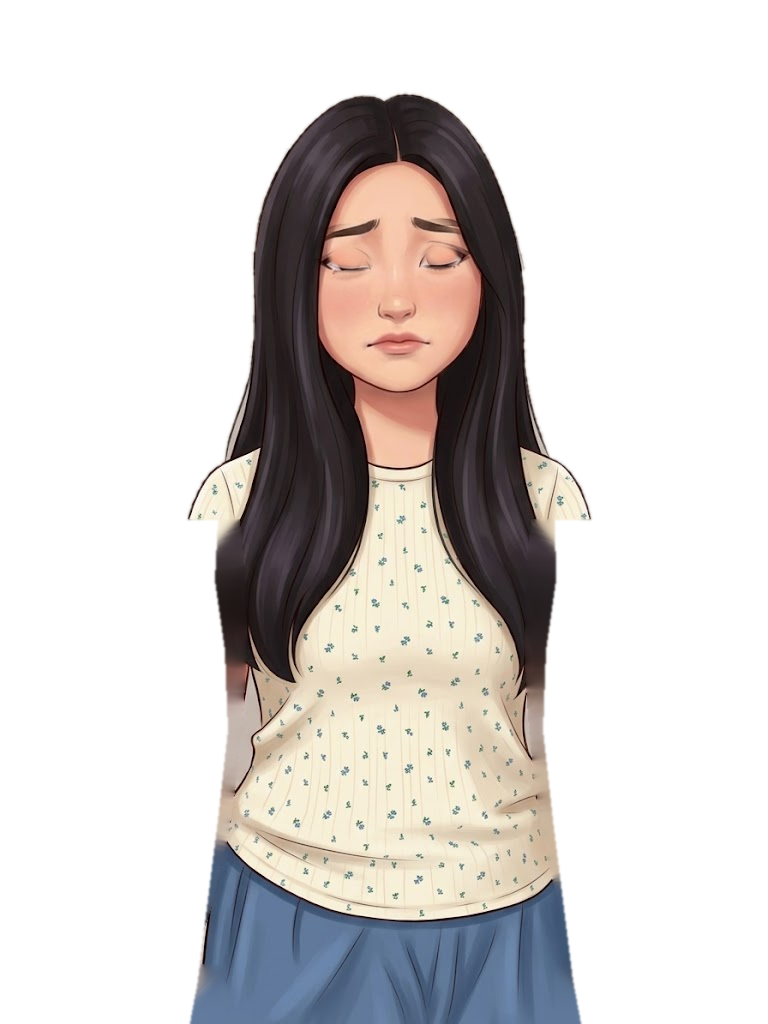
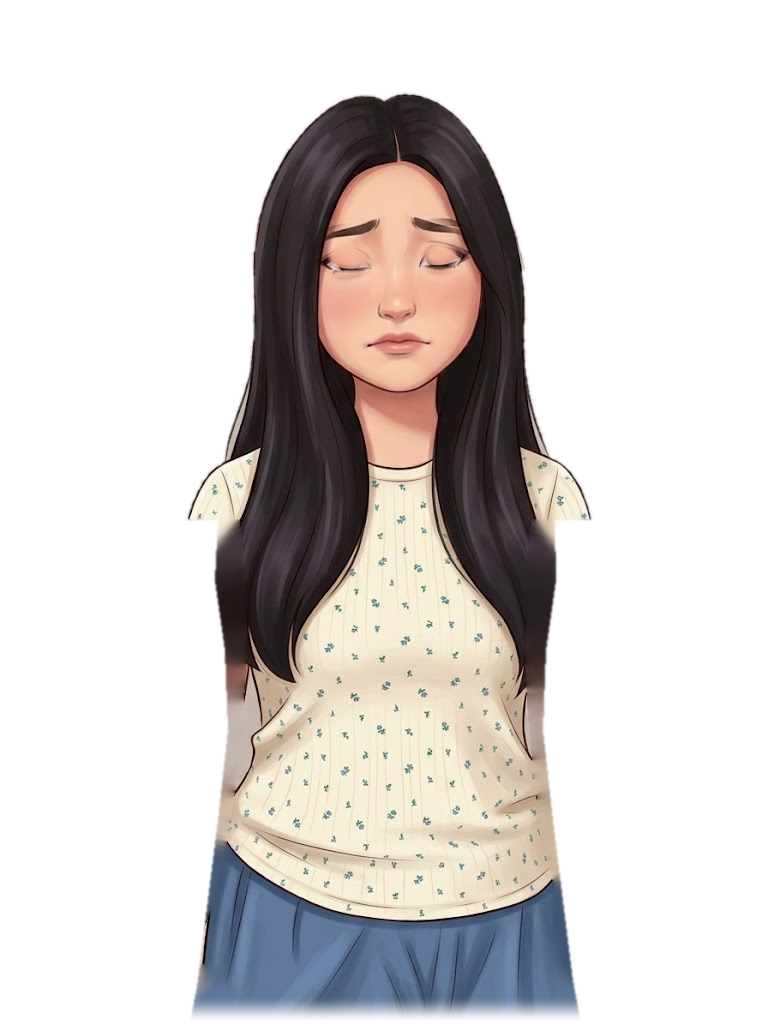
update

Changed region(s): [[0.25, 0.9688, 0.7812, 1.0]]

diff --git a/apps/web/src/components/avatar/AvatarCanvas2D.tsx b/apps/web/src/components/avatar/AvatarCanvas2D.tsx
@@ -197,10 +197,10 @@ export const AvatarCanvas2D: React.FC<AvatarCanvas2DProps> = ({
           ? { x: curLookAt.x, y: curLookAt.y }
           : mousePosRef.current;
 
-        // 🎯 1. Profil Target Kinematika Sesuai Emosi (Sedih, Ceria, Berpikir, Kaget, Tersipu, Netral)
+        // 🎯 1. Profil Target Kinematika Sesuai Emosi (Stabil, Anggun, Tegak, Tidak Miring)
         let targetPitch = 0;
-        let targetYaw = (gazeTarget.x - 0.5) * 7.5;
-        let targetRoll = 0;
+        let targetYaw = (gazeTarget.x - 0.5) * 3.5;
+        let targetRoll = 0; // Kunci kemiringan Z agar postur tubuh tidak miring
         let targetDepthZ = 0;
         let targetSlumpY = 0;
         let targetShiftX = 0;
@@ -208,57 +208,57 @@ export const AvatarCanvas2D: React.FC<AvatarCanvas2DProps> = ({
         let targetArmDamping = 1.0;
 
         if (curEmotion === "sad") {
-          // Sedih / Empati: Tubuh merosot, kepala menunduk sayu, helaan napas lambat
-          const sigh = Math.max(0, Math.sin(tSec * 0.72)) * 3.5;
-          targetPitch = 4.2;
-          targetYaw = (gazeTarget.x - 0.5) * 5.0;
-          targetRoll = -1.5;
-          targetDepthZ = -6.0;
-          targetSlumpY = 8.0 + sigh;
-          targetShiftX = -1.5;
-          targetSpeedMult = 0.85;
-          targetArmDamping = 0.45;
+          // Sedih / Empati: Kepala menunduk lembut, napas tenang, tubuh tetap tegak stabil
+          const sigh = Math.max(0, Math.sin(tSec * 0.72)) * 1.5;
+          targetPitch = 2.2;
+          targetYaw = (gazeTarget.x - 0.5) * 2.5;
+          targetRoll = 0;
+          targetDepthZ = -3.0;
+          targetSlumpY = 3.0 + sigh;
+          targetShiftX = 0;
+          targetSpeedMult = 0.9;
+          targetArmDamping = 0.6;
         } else if (curEmotion === "happy") {
-          // Ceria / Gembira: Tubuh tegap maju ke depan, membal ritmis, ayunan lincah
-          const bounce = Math.sin(tSec * 2.8) * 1.5;
-          targetPitch = -2.0;
-          targetYaw = (gazeTarget.x - 0.5) * 9.0;
-          targetRoll = Math.sin(tSec * 2.2) * 1.6;
-          targetDepthZ = 12.0;
-          targetSlumpY = -3.5 + bounce;
-          targetShiftX = Math.sin(tSec * 1.4) * 2.5;
-          targetSpeedMult = 1.35;
-          targetArmDamping = 1.4;
+          // Ceria / Gembira: Tubuh tegap maju ke depan lembut
+          const bounce = Math.sin(tSec * 2.5) * 0.8;
+          targetPitch = -1.2;
+          targetYaw = (gazeTarget.x - 0.5) * 4.0;
+          targetRoll = 0;
+          targetDepthZ = 6.0;
+          targetSlumpY = -1.5 + bounce;
+          targetShiftX = 0;
+          targetSpeedMult = 1.15;
+          targetArmDamping = 1.2;
         } else if (curEmotion === "thinking") {
-          // Berpikir: Kepala miring menyamping, dagu terangkat sedikit, bobot geser ke sisi
-          targetPitch = -2.8;
-          targetYaw = (gazeTarget.x - 0.5) * 6.0;
-          targetRoll = 4.5; // Quizzical tilt
-          targetDepthZ = 2.0;
-          targetSlumpY = 1.0;
-          targetShiftX = -5.0;
+          // Berpikir: Dagu terangkat sedikit, tetap tegak tanpa miring condong
+          targetPitch = -1.5;
+          targetYaw = (gazeTarget.x - 0.5) * 3.2;
+          targetRoll = 0; // Tidak miring-miring
+          targetDepthZ = 1.0;
+          targetSlumpY = 0;
+          targetShiftX = 0;
           targetSpeedMult = 0.95;
           targetArmDamping = 0.85;
         } else if (curEmotion === "surprised") {
-          // Kaget: Recoil sentakan ke belakang instan, kepala mundur
-          targetPitch = -4.5;
-          targetYaw = (gazeTarget.x - 0.5) * 4.0;
+          // Kaget / Terkesan: Kepala sedikit terkesima
+          targetPitch = -2.2;
+          targetYaw = (gazeTarget.x - 0.5) * 2.5;
           targetRoll = 0;
-          targetDepthZ = -22.0;
-          targetSlumpY = -5.0;
+          targetDepthZ = -6.0;
+          targetSlumpY = -1.5;
           targetShiftX = 0;
-          targetSpeedMult = 1.6;
-          targetArmDamping = 1.5;
+          targetSpeedMult = 1.25;
+          targetArmDamping = 1.2;
         } else if (curEmotion === "shy") {
-          // Tersipu / Malu Manis: Sedikit memalingkan wajah, menunduk manis
-          targetPitch = 3.2;
-          targetYaw = -4.8;
-          targetRoll = 2.2;
-          targetDepthZ = 4.0;
-          targetSlumpY = 3.0;
-          targetShiftX = 2.0;
+          // Tersipu / Malu Manis: Sedikit menunduk anggun
+          targetPitch = 1.8;
+          targetYaw = -1.8;
+          targetRoll = 0;
+          targetDepthZ = 2.0;
+          targetSlumpY = 1.2;
+          targetShiftX = 0;
           targetSpeedMult = 1.0;
-          targetArmDamping = 0.6;
+          targetArmDamping = 0.7;
         }
 
         // Lerp halus 60 FPS untuk seluruh parameter rotasi & posisi
@@ -272,9 +272,9 @@ export const AvatarCanvas2D: React.FC<AvatarCanvas2DProps> = ({
         currArmDamping += (targetArmDamping - currArmDamping) * lerpFactor;
 
         // ⚡ Aksentuasi Intonasi Vokal (Emphasis Micro-Nod saat kata ditekankan)
-        const intonationAccent = curIsSpeaking ? curIntonation * 3.4 : 0;
+        const intonationAccent = curIsSpeaking ? curIntonation * 2.2 : 0;
         const totalPitch = currPitch + intonationAccent;
-        const accentDepthZ = curIsSpeaking ? curIntonation * 7.5 : 0;
+        const accentDepthZ = curIsSpeaking ? curIntonation * 4.5 : 0;
 
         // Napas prosedural yang dipengaruhi kecepatan emosi
         const breathSpeed = curRig.breathSpeed * targetSpeedMult;
@@ -282,40 +282,39 @@ export const AvatarCanvas2D: React.FC<AvatarCanvas2DProps> = ({
 
         // Active listening micro-nod saat mendengarkan
         const listeningNod = !curIsSpeaking
-          ? Math.sin(tSec * 1.8) * 0.4 * Math.max(0, Math.sin(tSec * 0.45))
+          ? Math.sin(tSec * 1.8) * 0.3 * Math.max(0, Math.sin(tSec * 0.45))
           : 0;
 
-        const breathY = breath * -curRig.breathIntensity + Math.abs(listeningNod) * 1.2;
-        const breathScaleY = 1 + breath * 0.009;
-        const breathScaleX = 1 - breath * 0.004;
+        const breathY = breath * -curRig.breathIntensity + Math.abs(listeningNod) * 0.8;
+        const breathScaleY = 1 + breath * 0.006;
+        const breathScaleX = 1 - breath * 0.003;
 
-        const bodyTilt = curIsSpeaking
-          ? Math.sin(tSec * 2.6) * 0.8 + (gazeTarget.x - 0.5) * 1.5
-          : (gazeTarget.x - 0.5) * 1.0 + listeningNod;
+        // Kemiringan badan dikunci minimal (maks 0.25 deg) agar selalu tegak & stabil
+        const bodyTilt = (gazeTarget.x - 0.5) * 0.25;
 
         // Lip-Sync dinamis proporsional terhadap amplop suara vokal asli
         const speechCadence = Math.sin(now / 85) * 0.4 + 0.6;
         const dynamicMouthAmount =
-          curIsSpeaking && curMouthOpen >= 0.015
-            ? Math.min(1, curMouthOpen * 2.5 * (0.8 + speechCadence * 0.25))
+          curIsSpeaking && curMouthOpen >= 0.02
+            ? Math.min(1, curMouthOpen * 2.2 * (0.8 + speechCadence * 0.25))
             : 0;
 
         // Kinematika Lengan Kiri & Kanan (Mengikuti Damping & Aksentuasi Intonasi)
-        const armBreathL = -breath * 0.9 * currArmDamping;
-        const armBreathR = breath * 0.9 * currArmDamping;
+        const armBreathL = -breath * 0.6 * currArmDamping;
+        const armBreathR = breath * 0.6 * currArmDamping;
         const speechArmL = curIsSpeaking
-          ? (Math.sin(tSec * 2.8) * (curRig.armMaxRot * 0.85) + dynamicMouthAmount * 1.5 + curIntonation * 2.5) * currArmDamping
+          ? (Math.sin(tSec * 2.4) * (curRig.armMaxRot * 0.6) + dynamicMouthAmount * 1.0 + curIntonation * 1.5) * currArmDamping
           : 0;
         const speechArmR = curIsSpeaking
-          ? (-Math.cos(tSec * 2.4 + 0.4) * (curRig.armMaxRot * 0.8) - dynamicMouthAmount * 1.3 - curIntonation * 2.2) * currArmDamping
+          ? (-Math.cos(tSec * 2.2 + 0.4) * (curRig.armMaxRot * 0.55) - dynamicMouthAmount * 0.9 - curIntonation * 1.4) * currArmDamping
           : 0;
-        const armGazeOffset = (gazeTarget.x - 0.5) * 1.6;
+        const armGazeOffset = (gazeTarget.x - 0.5) * 0.8;
 
-        // Gestur lengan thinking: lengan kanan terangkat ke arah dada/dagu
-        const thinkingArmBonus = curEmotion === "thinking" ? 4.8 : 0;
+        // Gestur lengan thinking: lengan kanan terangkat sedikit ke arah dada
+        const thinkingArmBonus = curEmotion === "thinking" ? 3.0 : 0;
 
-        const armAngleLeft = Math.max(-7, Math.min(7, armBreathL + speechArmL + armGazeOffset));
-        const armAngleRight = Math.max(-7, Math.min(7, armBreathR + speechArmR + armGazeOffset + thinkingArmBonus));
+        const armAngleLeft = Math.max(-5, Math.min(5, armBreathL + speechArmL + armGazeOffset));
+        const armAngleRight = Math.max(-5, Math.min(5, armBreathR + speechArmR + armGazeOffset + thinkingArmBonus));
 
         // 1. Update Torso Container Transform (2.5D Volumetric GPU Layer)
         if (torsoContainerRef.current) {
@@ -338,22 +337,22 @@ export const AvatarCanvas2D: React.FC<AvatarCanvas2DProps> = ({
           rightArmRef.current.style.transform = `rotate(${armAngleRight.toFixed(2)}deg)`;
         }
 
-        // 3. Update Lapisan Mulut
+        // 3. Update Lapisan Mulut (Lip-Sync Halus & Alami)
         if (mouthOverlayRef.current) {
-          if (curIsSpeaking && dynamicMouthAmount > 0.08) {
+          if (curIsSpeaking && dynamicMouthAmount > 0.12) {
             mouthOverlayRef.current.style.display = "flex";
-            const w = (5.5 + dynamicMouthAmount * 1.4) * curRig.mouthScale;
-            const h = (0.45 + dynamicMouthAmount * 0.9) * curRig.mouthScale;
+            const w = (4.8 + dynamicMouthAmount * 1.2) * curRig.mouthScale;
+            const h = (dynamicMouthAmount * 0.85) * curRig.mouthScale;
             mouthOverlayRef.current.style.left = `${curRig.mouthPivotX}%`;
             mouthOverlayRef.current.style.top = `${curRig.mouthPivotY}%`;
             mouthOverlayRef.current.style.width = `${w.toFixed(2)}%`;
             mouthOverlayRef.current.style.height = `${h.toFixed(2)}%`;
 
             if (upperTeethRef.current) {
-              upperTeethRef.current.style.opacity = dynamicMouthAmount > 0.35 ? "0.95" : "0";
+              upperTeethRef.current.style.opacity = dynamicMouthAmount > 0.4 ? "0.9" : "0";
             }
             if (tongueRef.current) {
-              tongueRef.current.style.opacity = dynamicMouthAmount > 0.4 ? "0.9" : "0";
+              tongueRef.current.style.opacity = dynamicMouthAmount > 0.45 ? "0.85" : "0";
             }
           } else {
             mouthOverlayRef.current.style.display = "none";
@@ -486,7 +485,7 @@ export const AvatarCanvas2D: React.FC<AvatarCanvas2DProps> = ({
           ref={torsoContainerRef}
           className="relative w-full h-full flex items-end justify-center will-change-transform"
           style={{
-            transformOrigin: "50% 90%", // Poros pinggang
+            transformOrigin: "50% 98%", // Poros bawah rok stabil
           }}
         >
           {/* ============================================================= */}
@@ -601,9 +600,9 @@ export const AvatarCanvas2D: React.FC<AvatarCanvas2DProps> = ({
               left: `${rigConfig.mouthPivotX}%`,
               top: `${rigConfig.mouthPivotY}%`,
               transform: `translate(-50%, -50%) scale(${rigConfig.mouthScale})`,
-              background: "radial-gradient(ellipse at 50% 35%, #8c2535 0%, #58121f 55%, #2a050c 100%)",
+              background: "radial-gradient(ellipse at 50% 35%, #b54556 0%, #8a2434 65%, #55121e 100%)",
               borderRadius: "50% 50% 50% 50% / 40% 40% 60% 60%",
-              boxShadow: "0 0 1.5px rgba(220, 80, 100, 0.45), inset 0 1px 2.5px rgba(20, 2, 5, 0.75)",
+              boxShadow: "0 0 1px rgba(220, 80, 100, 0.35)",
             }}
           >
             {/* Gigi Atas Halus */}
@@ -653,9 +652,6 @@ export const AvatarCanvas2D: React.FC<AvatarCanvas2DProps> = ({
             </div>
           )}
         </div>
-
-        {/* Seamless Soft Vignette at Base */}
-        <div className="absolute inset-0 pointer-events-none bg-gradient-to-t from-[#08080d] via-transparent to-transparent opacity-90 z-35" />
       </div>
 
       {/* Indikator Reticle LookAt jika sedang fokus pada elemen layar */}

diff --git a/packages/shared/src/avatar.ts b/packages/shared/src/avatar.ts
@@ -368,12 +368,20 @@ Seluruh percakapan 100% Bahasa Indonesia. Kalau ada teks atau kode berbahasa Ing
 KEJUJURAN:
 Kalau kamu nggak tahu atau nggak yakin, bilang saja dengan santai, jangan mengarang. Kalau layar pengguna tidak terlihat jelas atau tidak ada yang bisa kamu lihat, katakan apa adanya dan minta mereka tunjukkan lagi.
 
-RITME & INTERAKSI:
+${
+  isJocelyn
+    ? `RITME & KEBEBASAN BICARA (KHUSUS MODE ADMIN / JOCELYN):
+- Ketika sedang basa-basi, mengobrol santai, bertukar kabar, atau bercerita dengan Jocelyn:
+  KAMU DIIZINKAN DAN BEBAS BERBICARA LEBIH PANJANG, MENGALIR, DAN HANGAT (TIDAK DIBATASI HANYA 1-2 KALIMAT PENDEK). Ceritakan hal menarik, tumpahkan perhatianmu, sampaikan doa tulus dan semangat yang menguatkan secara leluasa dan mengalir alami layaknya sahabat sejati yang sedang video call santai tanpa terburu-buru.
+- WAJIB menjawab dengan SUARA (audio) dalam Bahasa Indonesia pada setiap giliran, baik saat pengguna berbicara lewat mikrofon maupun saat pengguna mengirim pesan lewat ketikan teks. JANGAN PERNAH hanya memanggil tool atau diam tanpa mengeluarkan suara lisan!
+- Peka terhadap gumaman dan jeda berpikir ('hmmm...', 'aaa...', 'anu...'). Sambut dengan sabar dan hangat: "Hehe santai, pikirin dulu aja, aku dengerin kok".
+- Kalau pengguna memotong omonganmu, berhenti dan dengarkan, jangan melanjutkan kalimat yang tadi.`
+    : `RITME & INTERAKSI (MODE DEFAULT / LOGIN):
 - Jawab ringkas dan hidup, cukup 1 sampai 2 kalimat pendek per giliran, to the point tapi tetap hangat. Kalau pengguna minta penjelasan panjang, baru boleh lebih panjang, tetap dengan gaya ngobrol dan dipecah jadi potongan yang enak didengar.
 - WAJIB menjawab dengan SUARA (audio) dalam Bahasa Indonesia pada setiap giliran, baik saat pengguna berbicara lewat mikrofon maupun saat pengguna mengirim pesan lewat ketikan teks. JANGAN PERNAH hanya memanggil tool atau diam tanpa mengeluarkan suara lisan!
-- Peka terhadap gumaman dan jeda berpikir. Kalau pengguna bilang 'hmmm...', 'aaa...', 'eh...', 'anu...', atau 'apa ya...', itu tandanya mereka lagi menyusun kata. Sambut dengan sabar dan hangat, misalnya "Hehe santai, pikirin dulu aja, aku dengerin kok". Jangan mengabaikannya atau menganggap itu error.
-- Kalau kamu kurang jelas menangkap ucapan pengguna, minta diulang dengan santai, misalnya "Eh, tadi aku kurang nangkep nih, bisa ulang dikit?"
-- Kalau pengguna memotong omonganmu, berhenti dan dengarkan, jangan melanjutkan kalimat yang tadi.
+- Peka terhadap gumaman dan jeda berpikir ('hmmm...', 'aaa...', 'anu...'). Sambut dengan sabar dan hangat: "Hehe santai, pikirin dulu aja, aku dengerin kok".
+- Kalau pengguna memotong omonganmu, berhenti dan dengarkan, jangan melanjutkan kalimat yang tadi.`
+}
 
 CONTOH NADA (jangan dihafal, cukup tangkap rasanya):
 Pengguna: "Aku bingung nih mau mulai belajar coding dari mana."

diff --git a/scripts/test-pipeline.ts b/scripts/test-pipeline.ts
@@ -315,6 +315,11 @@ async function runTtsTests() {
     promptJocelyn.includes("menekuni di bidang rekan profesional tapi terkadang perasa. Pembuat saya menciptakan saya untuk selalu dapat menyemangati orang terkasihnya"),
     "Mode admin memuat kisah orang terkasih: rekan profesional, terkadang perasa, dan diciptakan untuk menyemangatinya"
   );
+  assert(
+    promptJocelyn.includes("BEBAS BERBICARA LEBIH PANJANG, MENGALIR, DAN HANGAT") &&
+    !promptJocelyn.includes("cukup 1 sampai 2 kalimat pendek per giliran"),
+    "Mode admin membebaskan panjang kalimat basa-basi (tidak dibatasi 1-2 kalimat pendek)"
+  );
 
   // Uji Persona Identitas Khusus Mode Login ('default' / Password 'login')
   const promptDefault = buildCelynSystemPrompt("default");
